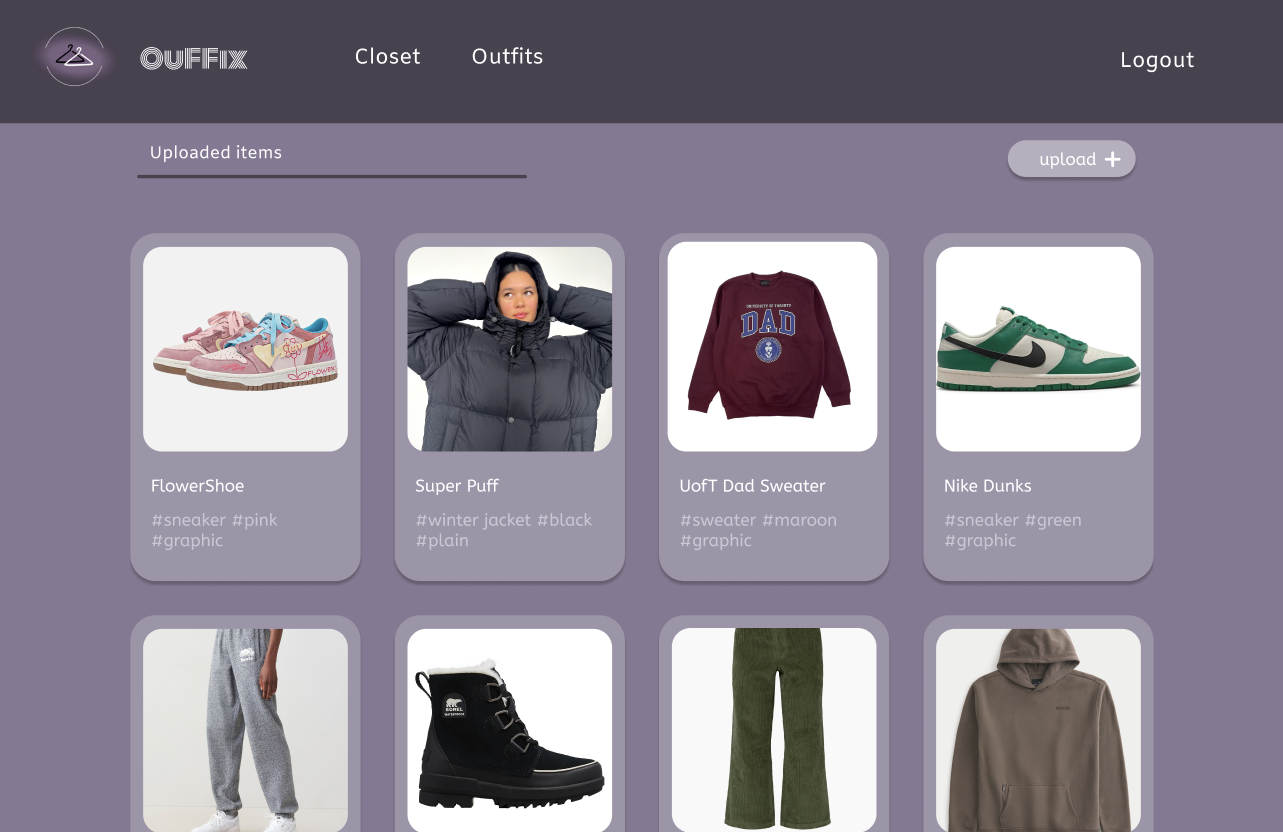
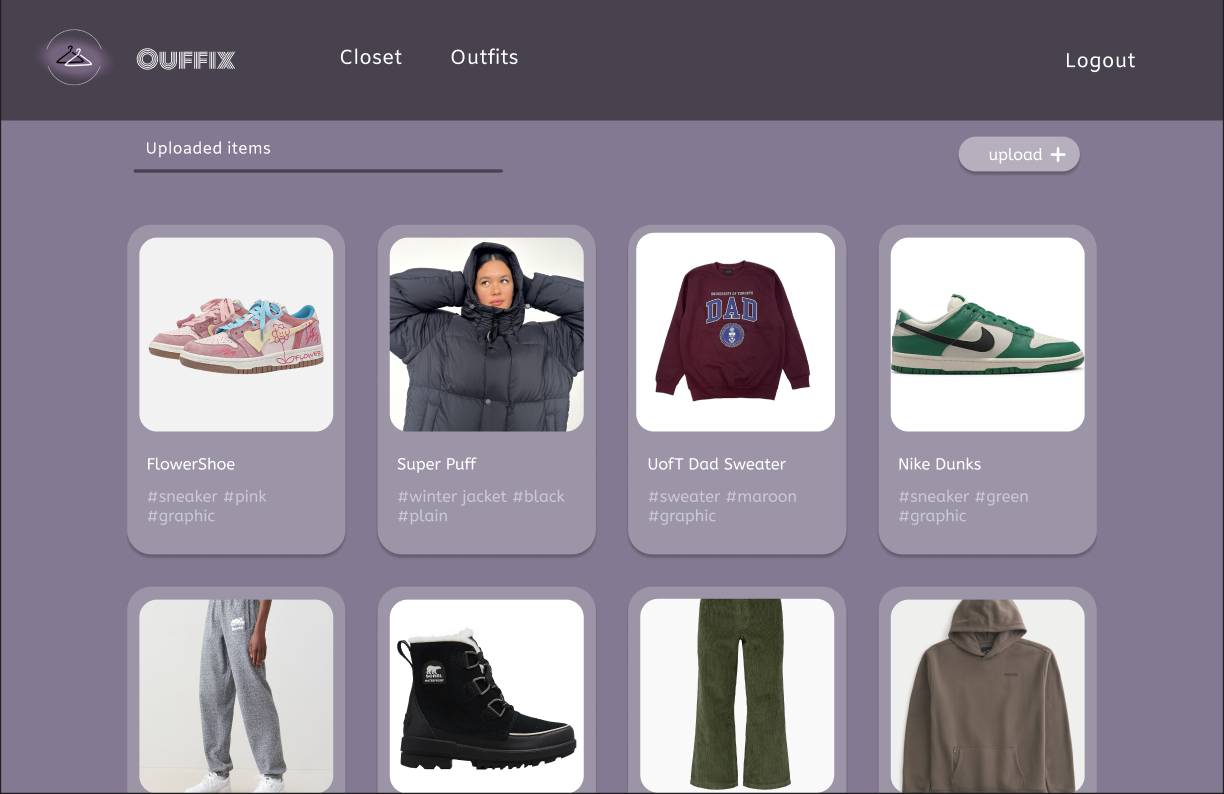
changed names

diff --git a/src/pages/LandingPage.jsx b/src/pages/LandingPage.jsx
@@ -23,7 +23,7 @@ const LandingPage = () => {
         <div className="space-y-4 px-4 flex-1 text-center sm:text-center lg:text-left">
           <h1 className="text-white font-bold text-4xl xl:text-5xl">
             Welcome to
-            <span className="text-indigo-300"> OuFFix!</span>
+            <span className="text-indigo-300"> Ouffix!</span>
           </h1>
           <p className="text-gray-300 max-w-xl leading-relaxed sm:mx-auto lg:ml-0">
             An application designed to elevate your style game and simplify your

diff --git a/src/pages/LoginPage.jsx b/src/pages/LoginPage.jsx
@@ -48,7 +48,7 @@ function LoginPage() {
       <div className="max-w-sm w-full text-gray-300 p-10 rounded-xl bg-[#111827]">
         <div className="text-center">
           <Link to={"/"} className="mx-auto w-32">
-            <h1 className="font-monoton text-3xl text-indigo-300">OuFFix</h1>
+            <h1 className="font-monoton text-3xl text-indigo-300">Ouffix</h1>
           </Link>
           <div className="mt-5 space-y-2">
             <h1 className="text-white text-2xl font-bold sm:text-3xl">

diff --git a/src/pages/Signup.jsx b/src/pages/Signup.jsx
@@ -51,7 +51,7 @@ function Signup() {
       <div className="max-w-sm w-full text-gray-300 p-10 rounded-xl bg-[#111827]">
         <div className="text-center">
           <Link to={"/"} className="mx-auto w-32">
-            <h1 className="font-monoton text-3xl text-indigo-300">OuFFix</h1>
+            <h1 className="font-monoton text-3xl text-indigo-300">Ouffix</h1>
           </Link>
           <div className="mt-5 space-y-2">
             <h1 className="text-white text-2xl font-bold sm:text-3xl">

diff --git a/src/components/Footer.jsx b/src/components/Footer.jsx
@@ -21,7 +21,7 @@ const Footer = () => {
           <img src={Logo} className="w-40 mx-auto" alt="Logo" />
         </div>
         <div className="mt-10 py-10 border-t items-center justify-between sm:flex">
-          <p>© 2023 OuFFix. All rights reserved.</p>
+          <p>© 2023 Ouffix. All rights reserved.</p>
           <ul className="flex flex-wrap items-center gap-4 mt-6 sm:text-sm sm:mt-0">
             {footerNavs.map((item, idx) => (
               <li

diff --git a/src/components/LandingPageNavbar.jsx b/src/components/LandingPageNavbar.jsx
@@ -36,7 +36,7 @@ const LandingPageNavbar = () => {
           <div className="flex items-center justify-between p-4">
             <Link to="/" className="flex items-center">
               <h1 className="font-monoton text-4xl text-white hover:text-[#d6ccde]">
-                OuFFix
+                Ouffix
               </h1>
               <img src={Logo} className="h-14 ml-2" alt="Logo" />{" "}
               {/* Adjust the width and height as needed */}

diff --git a/src/components/Navbar.jsx b/src/components/Navbar.jsx
@@ -29,7 +29,7 @@ const Navbar = () => {
                 className="h-14 ml-2 ml-[-30px] md:ml-[-20px] lg:ml-[-75px] sm:mr-3 lg:mr-5"
                 alt="Logo"
               />{" "}
-              <h1 className="font-monoton text-3xl">OuFFix</h1>
+              <h1 className="font-monoton text-3xl">Ouffix</h1>
             </Link>
             <div className="md:hidden">
               <button
